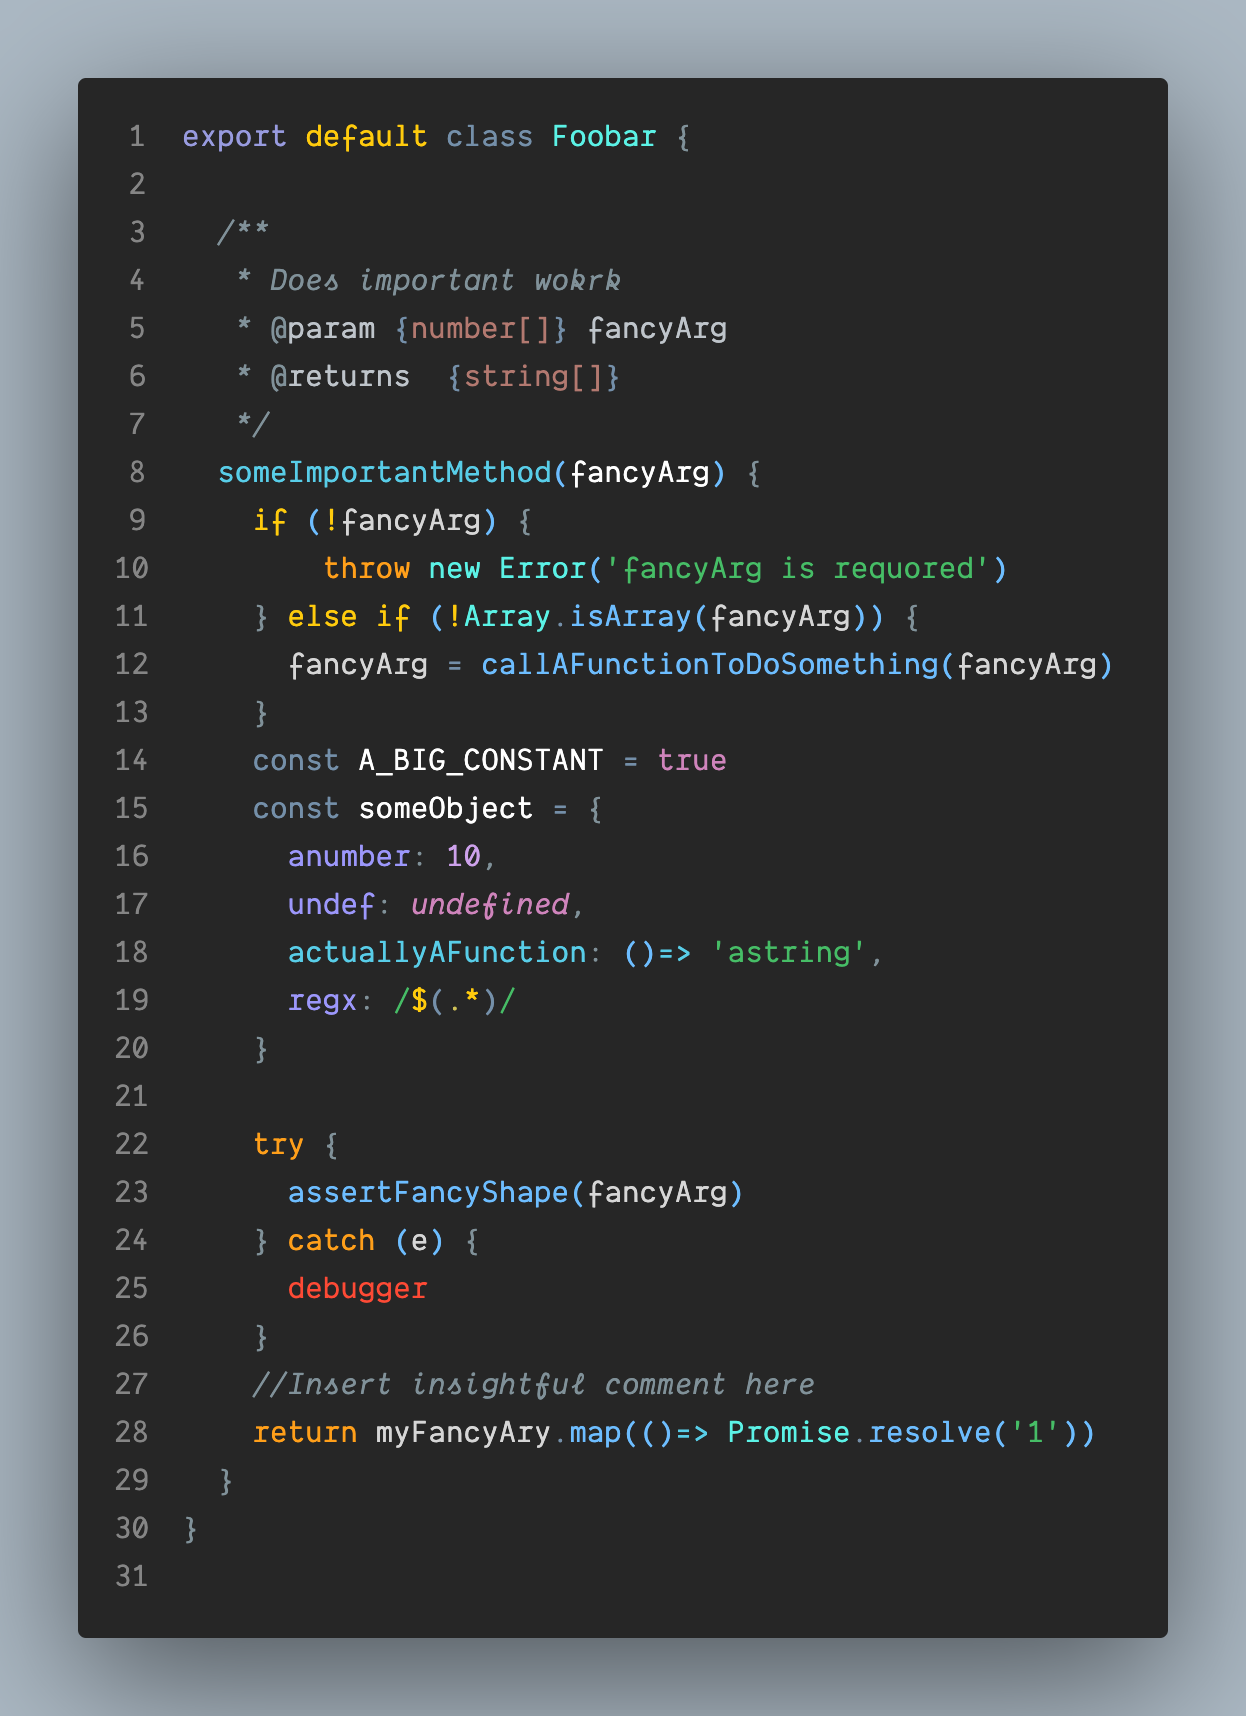
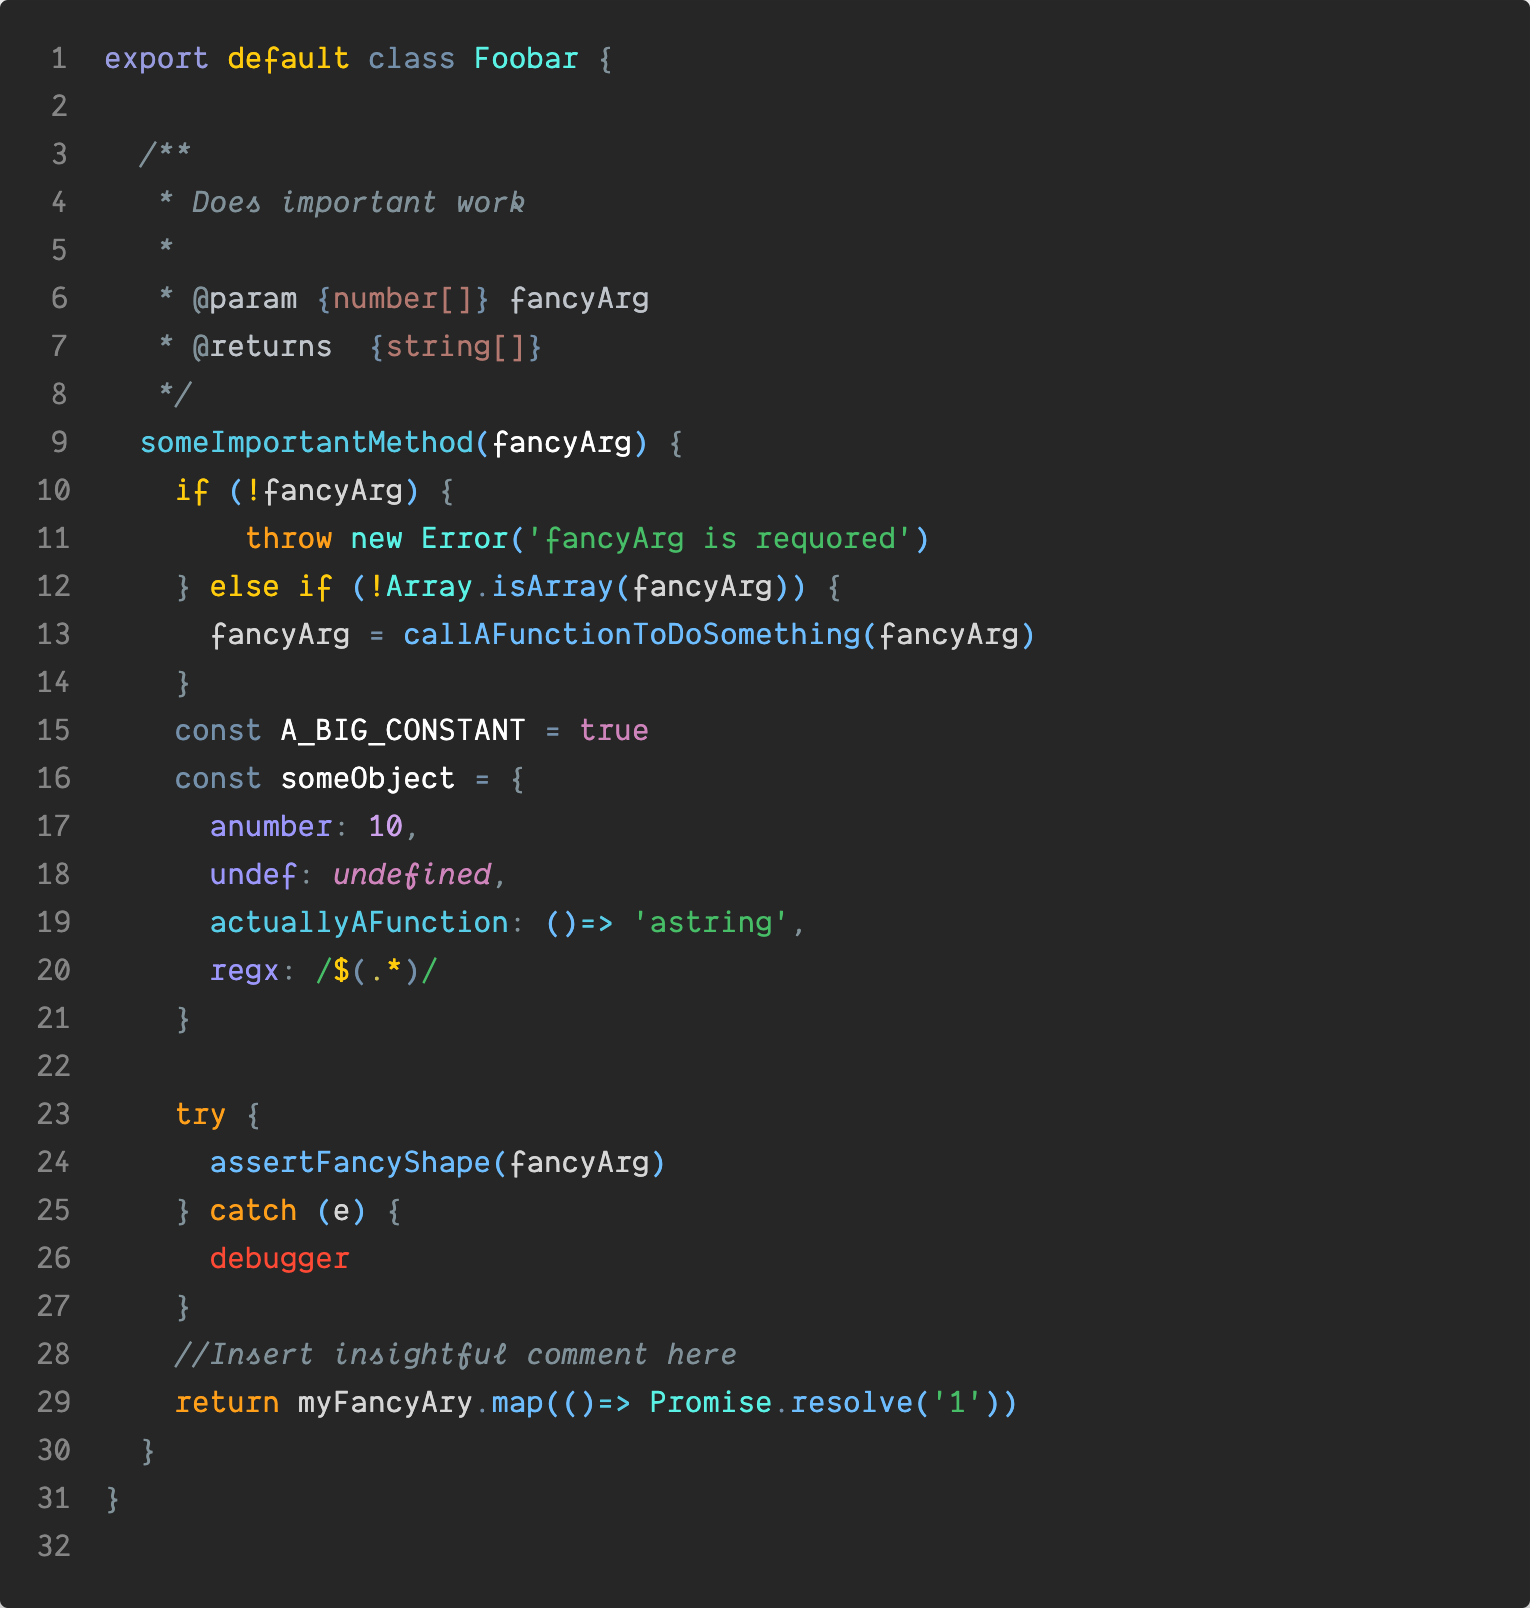
update readme imgs

diff --git a/demo/screenshottable/tsx.tsx b/demo/screenshottable/tsx.tsx
@@ -1,16 +1,18 @@
 import React, { useState } from "react"
+
 interface Props {
   children: (x: number, y: number) => JSX.Element | null
 }
-
 function Mouse({ children }: Props) {
   const [state, setState] = useState({
     x: 0,
     y: 0,
+    something: undefined
   })
-  const handleMouseMove = (
-    event: React.MouseEvent<HTMLDivElement, MouseEvent>
-  ) => {
+  if (process.env.DEVELOPMENT) {
+    return null
+  }
+  function handleMouseMove(event: React.MouseEvent<HTMLDivElement,MouseEvent>){
     setState({
       x: event.clientX,
       y: event.clientY,
@@ -21,6 +23,8 @@ function Mouse({ children }: Props) {
       style={{ height: "100%", position: "relative" }}
       onMouseMove={handleMouseMove}
     >
+      <a href="google.com">Google</a>
+      <BigComponent type="huge" />
       {children(state.x, state.y)}
     </div>
   )

diff --git a/demo/screenshottable/css.css b/demo/screenshottable/css.css
@@ -15,3 +15,17 @@ body {
   -ms-transform: translateZ(0);
   transform: translateZ(0);
 }
+
+.navigation .messages-menu li:not(:last-child) {
+  border-bottom: 1px solid rgb(212, 163, 163);
+  border-bottom: 1px soli #ffffff;
+  margin-bottom: 15px;
+}
+
+div:after {
+  content: "Foo";
+  position: relative !important;
+}
+a:hover {
+  display: none;
+}

diff --git a/demo/screenshottable/js.js b/demo/screenshottable/js.js
@@ -1,7 +1,8 @@
 export default class Foobar {
 
   /**
-   * Does important wokrk
+   * Does important work
+   *
    * @param {number[]} fancyArg
    * @returns  {string[]}
    */

diff --git a/demo/screenshottable/php.php b/demo/screenshottable/php.php
@@ -1,25 +1,27 @@
 <?php
 class LoginLinkController extends Controller
 {
-  private function actionAndRedirect(String $result, User $user, array $queryParams)
+  private function actionAndRedirect(
+    String $result, User $user, array $queryParams
+  )
   {
         $currentUser = $this->getCurrentUserService()->getUser();
-        if ($currentUser && $currentUser->getUserId() != $request->get('userId')) {
-            $this->getSessionService()->set('logout_redirect', $request->getParentUri());
+        if ($currentUser->getUserId() != $request->get('userId')) {
+            $this->set('logout_redirect', $request->getParentUri());
             return $this->redirect('/logout/');
         }
-        $result = $this->getLoginLinkService()->consumeLoginLinkRequest($request);
+        $result = $this->getLoginService()->consumeLoginLinkRequest($request);
 
-        //Code to handle custom logic for denied login links that still want to execute some action should go here
+        //Code to handle custom logic for denied login links
         $defaultRedirectUrl = '/login/';
         switch ($result['type']) {
             case (LoginLinkTypes::FINALS_SALE):
-                $this->getSessionService()->set('from_finals_email_campaign', true);
-                $defaultRedirectUrl = '/login/?login_redirect=' . urlencode('/finals/special-offer');
+                $this->getSessionService()->set('from_finals_email_campaign');
+                $defaultRedirectUrl = '/login/?login_redirect='
                 break;
             case (LoginLinkTypes::CART_ABANDONMENT):
                 $dbFilename = $request->query->get('db_filename');
-                $defaultRedirectUrl = $dbFilename ? '/file/' . $dbFilename . QueryParamUtility::getQueryParamsURL($request, $excludedQueryParams) : $defaultRedirectUrl;
+                $defaultRedirectUrl = $dbFilename ? '/file/' . $dbFilename)
                 break;
         }
         return $returnResponse;
